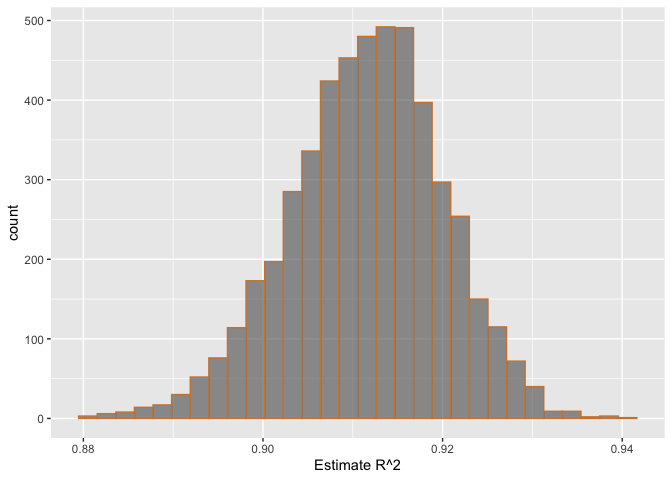
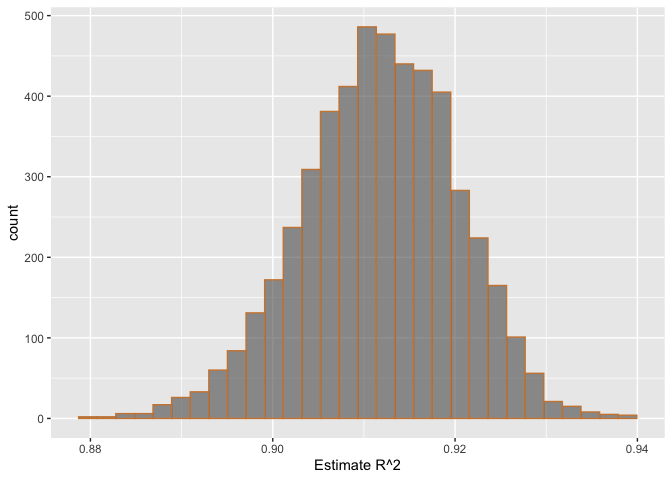
Formatting change

diff --git a/p8105_hw6_cc4347.md b/p8105_hw6_cc4347.md
@@ -266,7 +266,7 @@ boots_results %>%
 
 |   R^2 | Log(B0 \* B1) |
 | ----: | ------------: |
-| 0.911 |         2.012 |
+| 0.912 |         2.013 |
 
 ``` r
 r_squared= boots_results %>%
@@ -307,7 +307,7 @@ quantile(pull(boots_results, r_squared), probs = c(.025, .975)) %>%
 |       |     x |
 | ----- | ----: |
 | 2.5%  | 0.894 |
-| 97.5% | 0.928 |
+| 97.5% | 0.927 |
 
 ``` r
 quantile(pull(boots_results, logB), probs = c(.025, .975)) %>% 
@@ -316,8 +316,8 @@ quantile(pull(boots_results, logB), probs = c(.025, .975)) %>%
 
 |       |     x |
 | ----- | ----: |
-| 2.5%  | 1.964 |
-| 97.5% | 2.058 |
+| 2.5%  | 1.966 |
+| 97.5% | 2.060 |
 
 As can be expected because their disributions are unique, the calculated
 quantiles differ, and the Log(B0\*B1) plot has higher quantiles since
